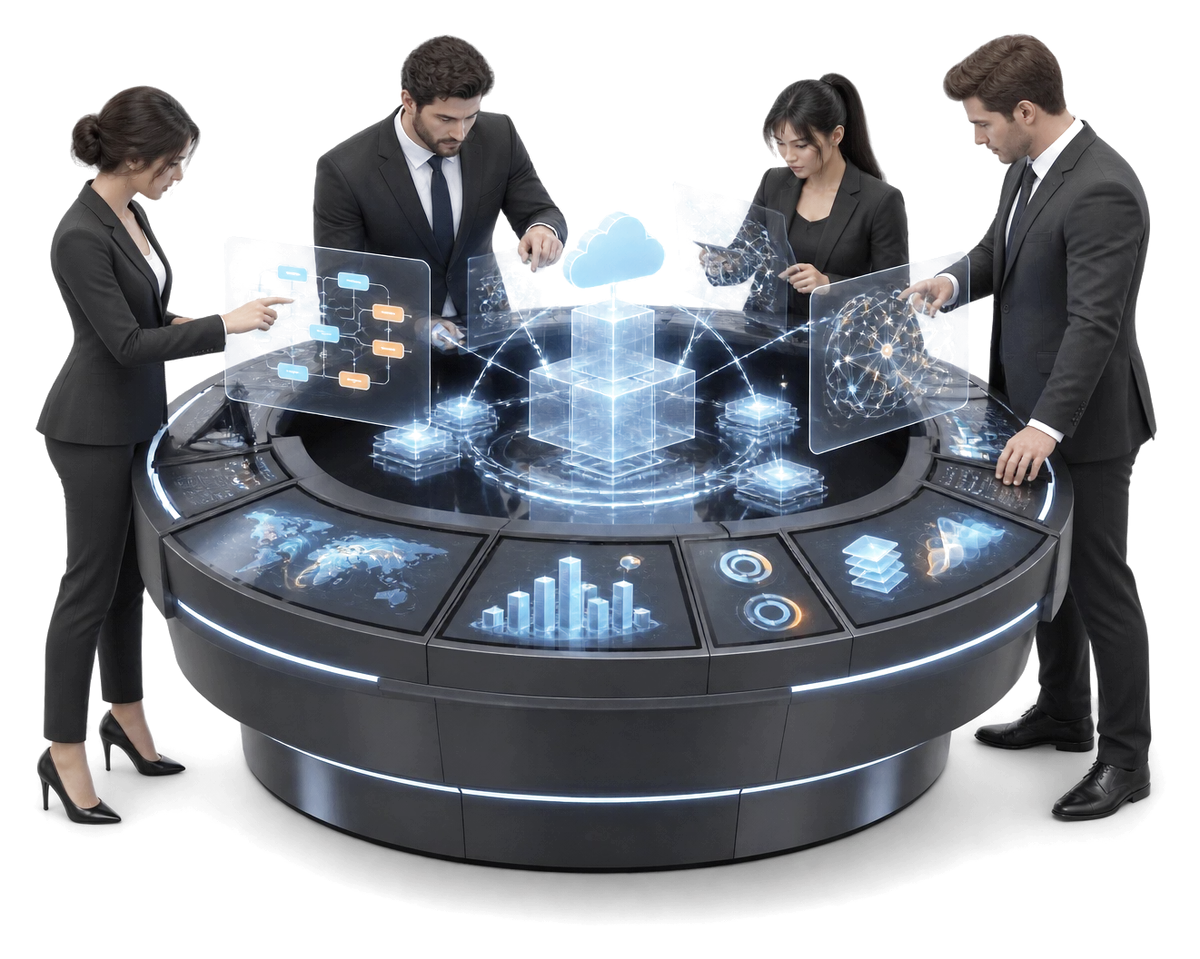
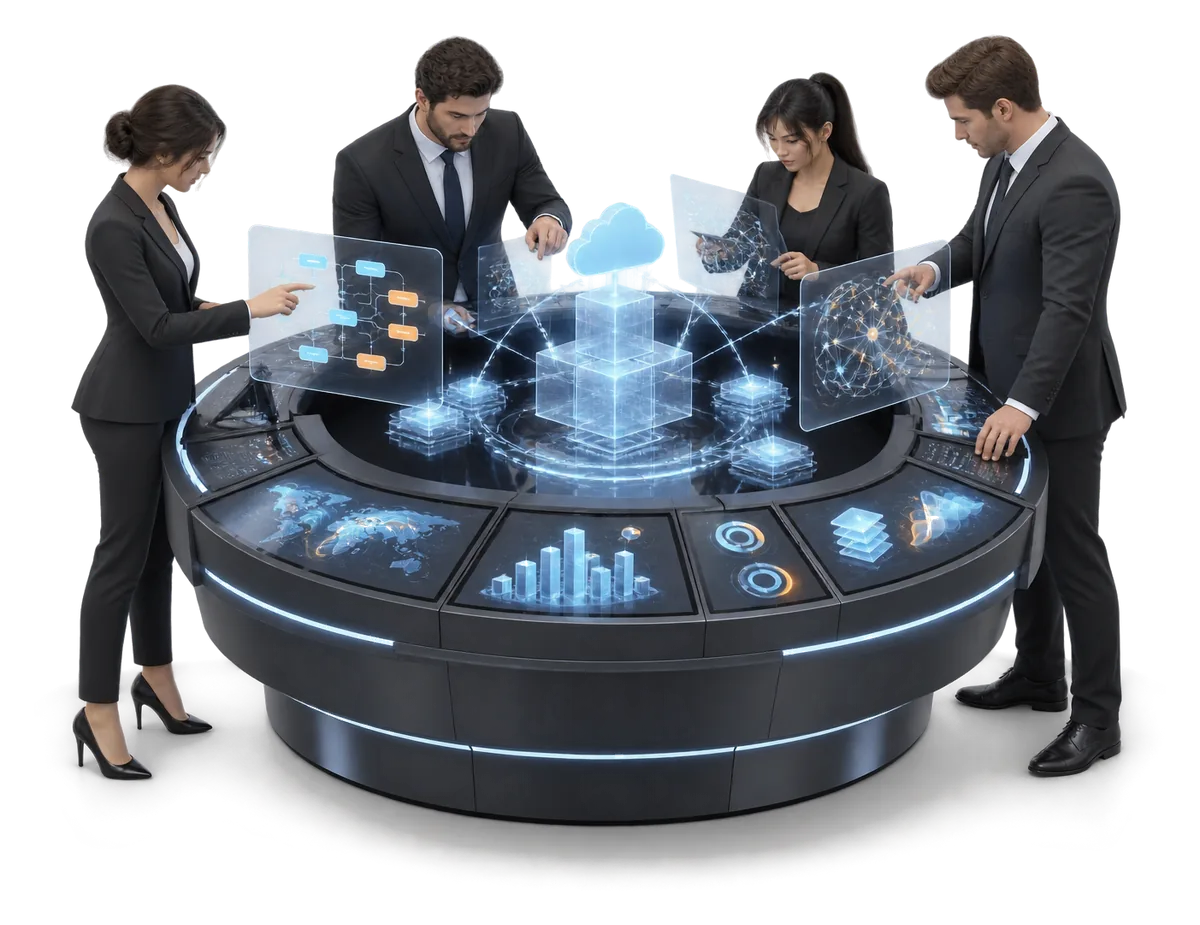
Homepage hero: whole picture shown, floor haze keyed out

diff --git a/web/components/sections/brand-hero.tsx b/web/components/sections/brand-hero.tsx
@@ -182,7 +182,7 @@ export function BrandHero({ slides = homeHeroSlides }: { slides?: HeroSlide[] })
           fill
           priority
           sizes="100vw"
-          className="object-cover object-[center_30%] opacity-100"
+          className="object-contain object-center opacity-100"
         />
       </div>
       <div aria-hidden className="hero-ambient pointer-events-none absolute inset-0" />
